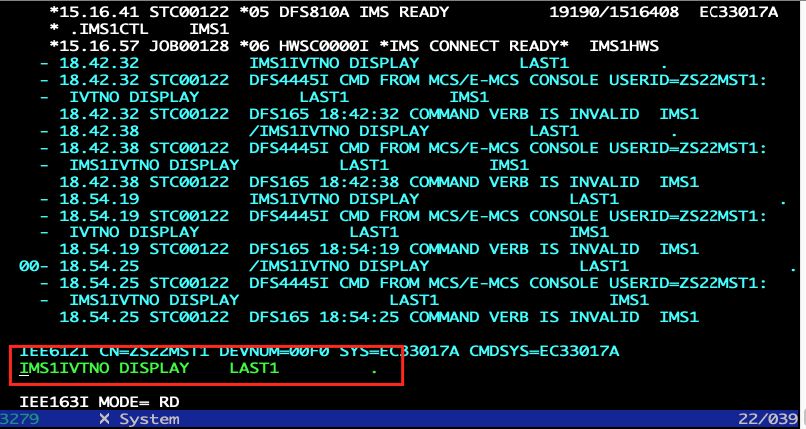
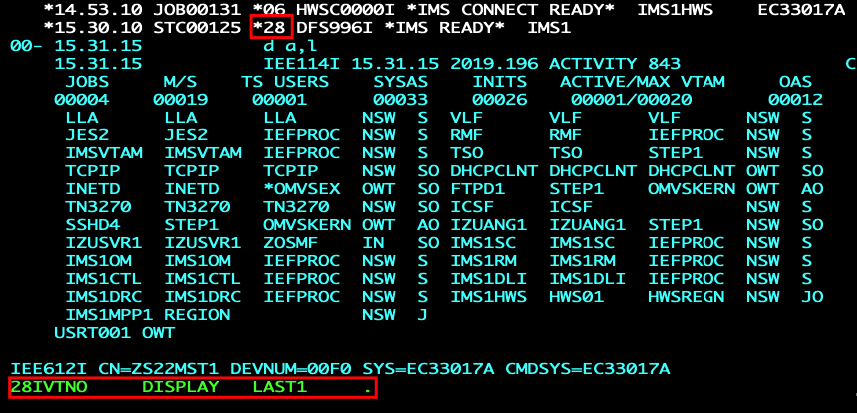
Sample documentation - updates

diff --git a/README.md b/README.md
@@ -239,16 +239,17 @@ Connecting to a VTAM session can be configuration specific beyond the defaults, 
 ## Steps Running the Sample Application
 Optionally, the sample application can be run at the IMS console using the applications transaction code IVTNO.
 1. Sign onto an IMS user terminal session.
-    * Example screen capture of a IMS terminal session
+    * Below is a screen capture of a IMS terminal session
       ![IMS terminal session example](img/ims.terminal.png)
-    * Using the value set for **DFS_IMS_SSID** entered in the [workflow variable properties file](workflows/ims/workflow_variables.properties) use the command format `<DFS_IMS_SSID>IVTNO     DISPLAY   LAST1     .`. 
-    
-    This command follows the syntax:  
-      `<DFS_IMS_SSID><Transaction Code><5 spaces><Process code><3 spaces><Last Name><5 spaces><period>`.
-    * For example, running command `IMS1IVTNO     DISPLAY   LAST1     .`
+    * Using the ims reply number which can be found alongside the IMS READY message, use the command syntax:
+      `<IMS REPLY NUMBER><Transaction Code><5 spaces><Process code><3 spaces><Last Name><5 spaces><period>`
+    * In the following screen capture, the reply number is 28 and the command run is: `28IVTNO     DISPLAY   LAST1     .`
       ![ims display command example](img/ims.display.cmd.png)
-    * The results will be showing in teh IMS terminal session. 
-      ![IMS Display tran result](img/ims.result.cmd.png)
+    * The IMS console will display a new reply number 29 and command it ran. 
+      * To obtain the result, run the command `29/.` which follows syntasx `<IMS REPLY NUMBER></.>`
+        ![IMS Display tran result](img/ims.reply.display.cmd.png)
+    * The results will be shown in the IMS terminal session. 
+      ![IMS Display tran result](img/ims.result.display.cmd.png)
 
 ## Troubleshooting
 * IZUWF0105E   Workflow property file file-name is either not found or cannot be accessed
